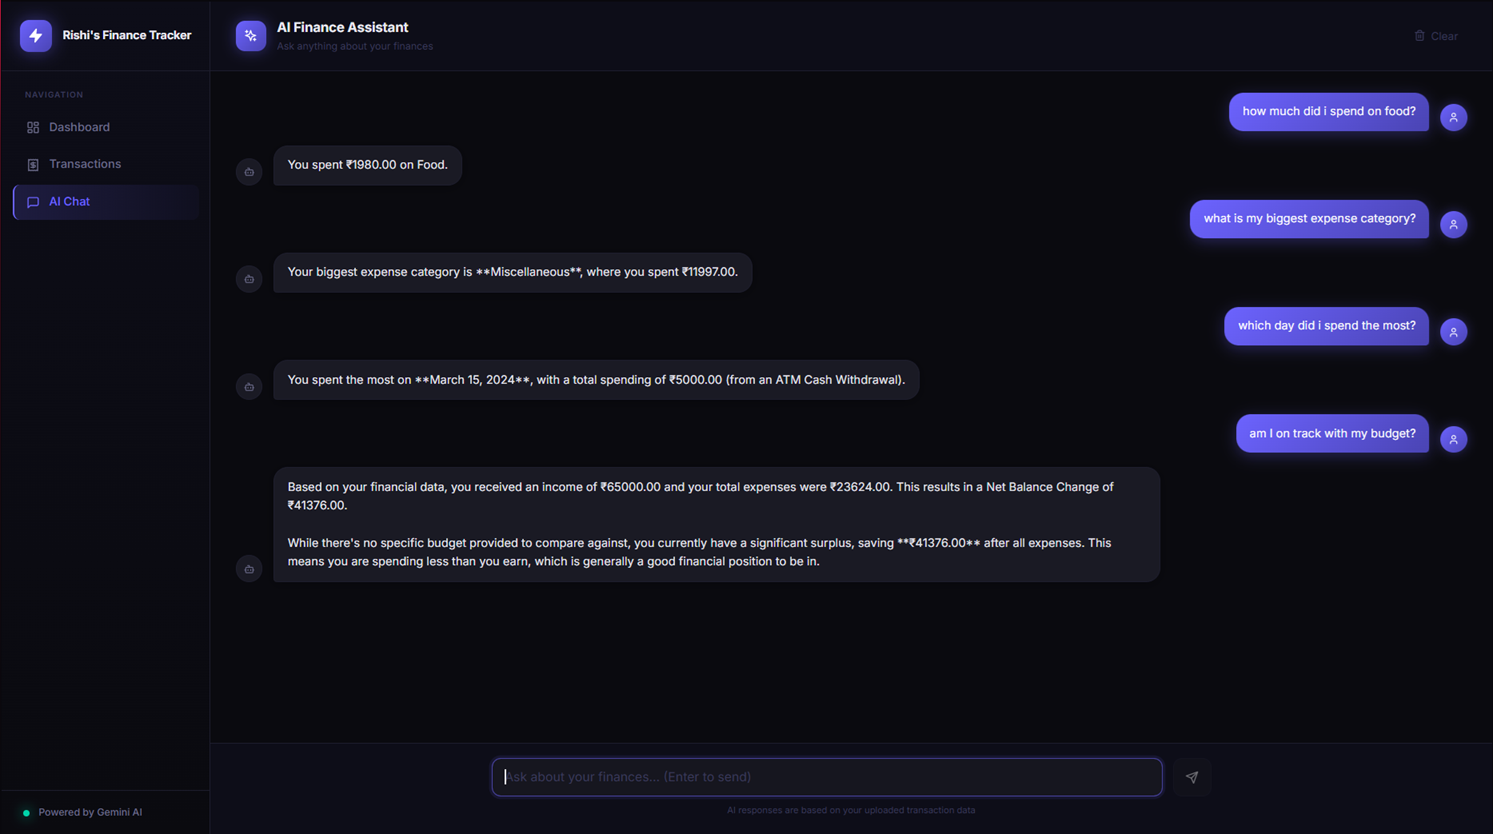
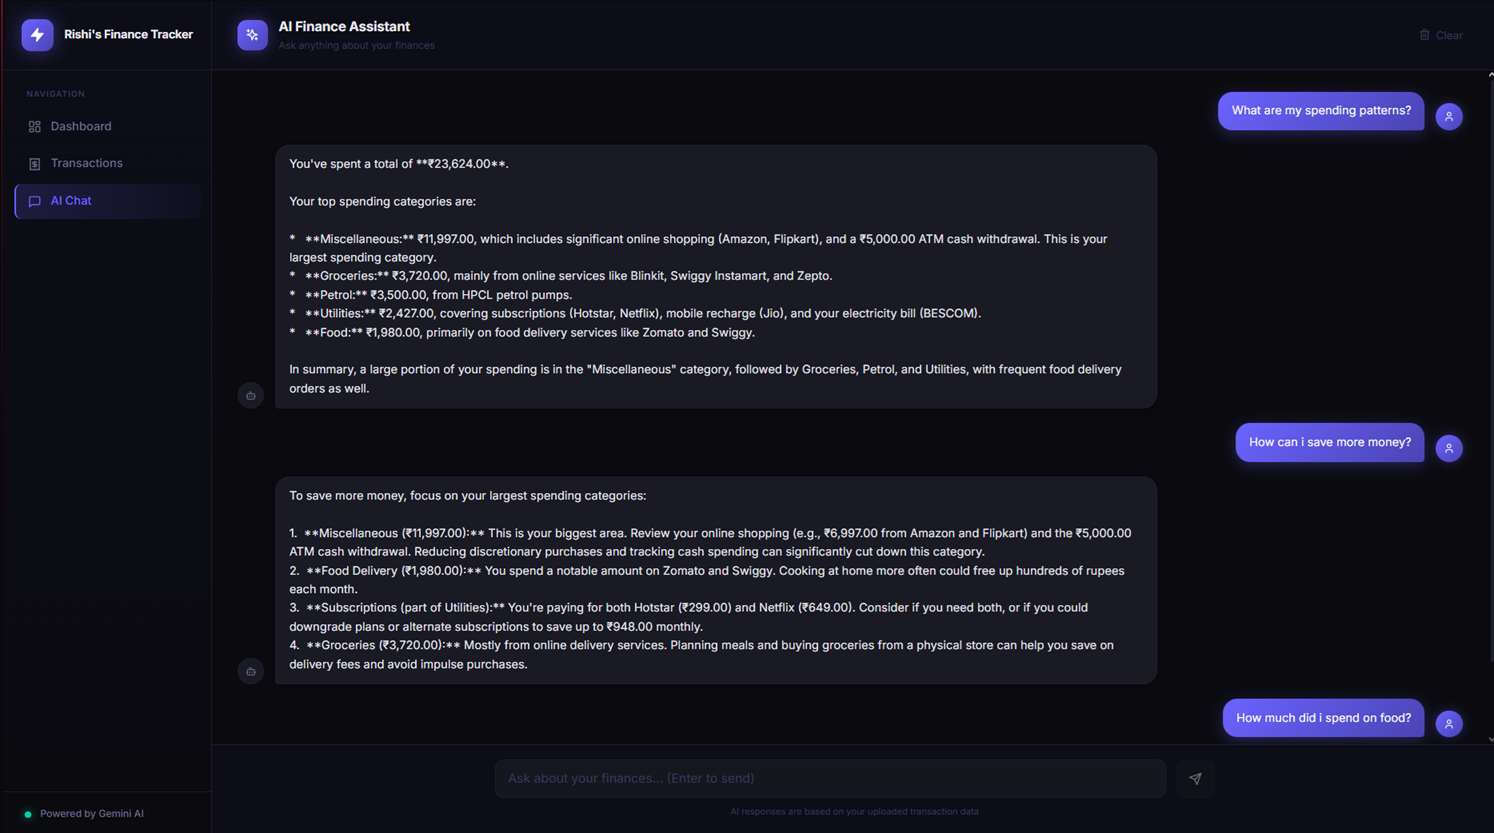
Update screenshots

diff --git a/README.md b/README.md
@@ -4,9 +4,15 @@ A web app that parses your bank statement PDFs, categorizes transactions automat
 
 Built this for myself — I'm a final year student living alone and wanted something smarter than manually tagging transactions in a notes app.
 
+## Screenshots
+
 ![Dashboard](screenshots/dashboard.png)
+
+![What If Simulator](screenshots/simulator.png)
+
 ![Transactions](screenshots/transactions.png)
-![Chat](screenshots/chat.png)
+
+![AI Chat](screenshots/chat.png)
 
 ---
 
